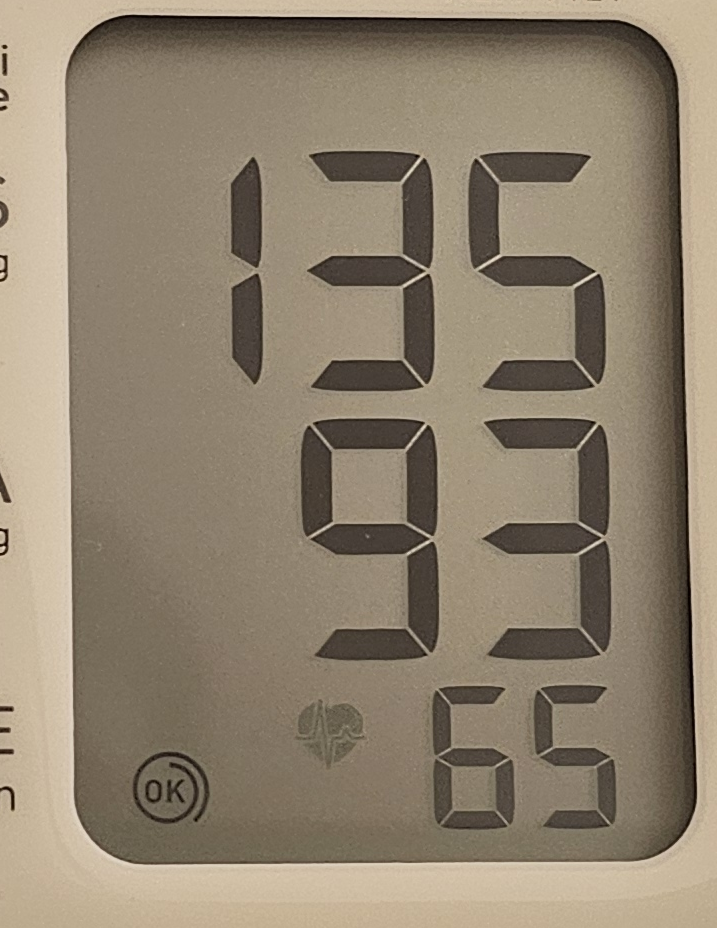
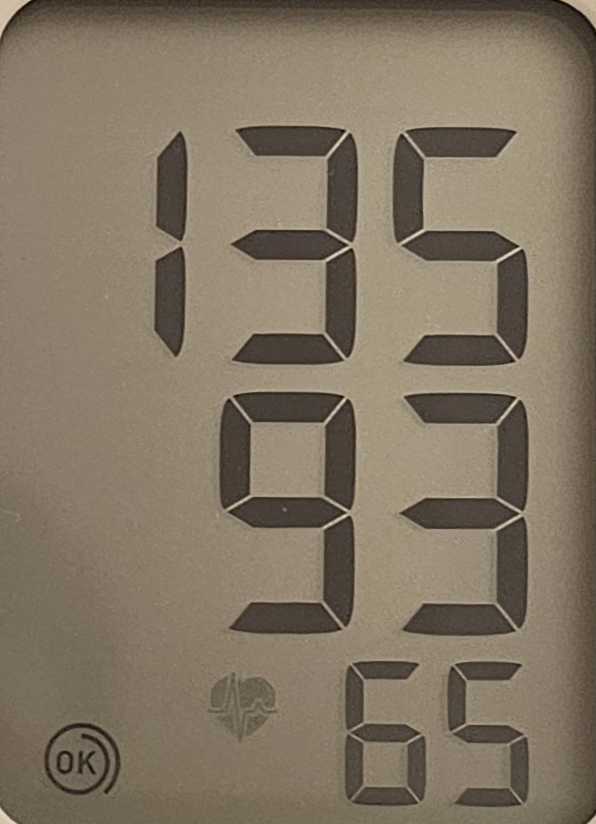
task 1 complete for bpm and thermometer

diff --git a/task1.py b/task1.py
@@ -37,13 +37,24 @@ import numpy as np
 import math
 
 from ml_utils import load_YOLO, crop_object_box, perspective_transform_image
+
+ALLOW_BPM_DEBUG = True
+ALLOW_THERMO_DEBUG = True
+
 THERMO_LABEL = "thermometer"
+
 BPM_LABEL = "blood pressure monitor"
 BPM_THERMOMETER_DEETECTOR_MODEL_PATH = os.path.join("data/task1/","bpm_thermomter_detector.pt")
 LCD_DISPLAY_DETECTOR_MODEL_PATH = os.path.join("data/task1/","lcd_display_detector.pt")
 
+TEMPLATE_LCD_PATH = os.path.join("data/task1/templates/", "template_lcd.png")
+TEMPLATE_THERMO_PATH = os.path.join("data/task1/templates/", "template_thermo.png")
+
 BASE_CONFIDENCE_THRESHOLD_LCD_DISPLAY = 0.25
 BASE_CONFIDENCE_THRESHOLD_BPM_THEROMETER = 0.25
+
+# keypoint matching how many matches required
+MIN_MATCH_COUNT = 10
 
 OUTPUT_DIR = os.path.join("output","task1")
 
@@ -83,19 +94,19 @@ def run_task1(image_path, config):
 
     print(f"    [Task 1] Found {len(images)} input images(s).")
 
-    process_task1(images)
+    process_task1(images, ALLOW_BPM_DEBUG, ALLOW_THERMO_DEBUG)
    
-def process_task1(images):
+def process_task1(images, allowBPMDebug, allowTHERMODebug):
     """
     
     Pipeline: Input -> [BPM THERMO Detector] -> 
     
-    -> BPM -> [LCD Display Detector] -> [Crop Display] -> [Use orientated image for keypoint detection of four corners] -> [SIFT corner detection] -> [Perspective Transform]
-    -> Thermo -> [Crop Thermometer] -> [Use orientated image SIFT for keypoint detection] -> [Perspective transform]
+    -> BPM -> [LCD Display Detector] -> [Crop Display] -> [Use orientated image for keypoint detection of four corners] -> [SIFT keypoint detection] -> [Perspective Transform] -> Output
+    -> Thermo -> [Crop Thermometer] -> [Use orientated image SIFT for keypoint detection] -> [Perspective transform] -> Output
     
     """
-    # load model ->
 
+    # load models
     bpm_model_detector = load_YOLO(BPM_THERMOMETER_DEETECTOR_MODEL_PATH)
     lcd_display_detector = load_YOLO(LCD_DISPLAY_DETECTOR_MODEL_PATH)
      # task 1 logic
@@ -132,44 +143,15 @@ def process_task1(images):
             tensorBox = results[0].boxes.xyxy[i]
             x1, y1, x2, y2 = map(int, tensorBox[:4])
 
-            # obtain width and height of bounding box
-            width = abs(x2 - x1)
-            height = abs(y2 - y1)
-
-
-
             # for each image if negative 
             print(f"LABEL: {label_name}, CONF: {box.conf[0].item()}")
             if label_name == THERMO_LABEL:
-                # thermometer
-
-
-                # crop it to the bounding boxes
-                final_image = crop_object_box(tensorBox, img)
-                # orientate the image (rotate by theta optimal)
-
-                final_image = apply_perspective_transform(final_image, width, height)
-
-
+                final_image = process_thermometer_image(img, tensorBox, allowTHERMODebug)
                 out_name = f"thermo{img_num}.png"
                 print(f"    [Task 1] {basename}.jpg -> Thermometer -> {out_name}")
             elif label_name == BPM_LABEL:
                 # pipeline: image -> [feature detection] -> [bpm detector] -> [lcd detector] ->  output image
-
-                # OR use SIFT: 
-                #  SOLUTION: SHI TOMASI CORNER DETECTION
-                    # - then find the top, leftmost, rightmost and bottom corners (then orientate corners of lcd display)
-
-                # bpm (crop to bounding boxes)
-                final_image = crop_object_box(tensorBox, img)
-
-                # detect lcd screen using lcd screen detector
-                lcdDisplayBox = lcd_display_detector.predict(final_image, conf=BASE_CONFIDENCE_THRESHOLD_LCD_DISPLAY, retina_masks=True)[0].boxes.xyxy[0]
-                # crop it (to lcd screen)
-                final_image = crop_object_box(lcdDisplayBox, final_image)
-                # orientate
-
-                
+                final_image = process_bpm_image(img, tensorBox, lcd_display_detector, allowBPMDebug)
 
                 out_name = f"lcd{img_num}.png"
 
@@ -181,13 +163,110 @@ def process_task1(images):
             output_path = os.path.join(OUTPUT_DIR, out_name)
             save_output(output_path, final_image, output_type='image')
 
+def process_thermometer_image(img, tensorBox, allowDebug):
+    # thermometer
+    # obtain width and height of bounding box
+    
+    templateTHERMOImage = cv2.imread(TEMPLATE_THERMO_PATH)
 
+    # crop it to the bounding boxes of thermometer
+    final_image = crop_object_box(tensorBox, img)
 
-def apply_perspective_transform(crop, width, height):
-    # convert to gray scale
-    img = crop.copy()
-    pts_src = np.float32([[50, 100], [400, 50], [450, 500], [20, 450]])
+    final_image = sift_keypoint_perspective_warp(templateTHERMOImage, final_image, allowDebug)
 
-    pts_dst = np.float32([[0, 0], [width, 0], [width, height], [0, height]])
+    if allowDebug:
+        plt.imshow(final_image)
+        plt.show()
 
-    return perspective_transform_image(crop, pts_src, pts_dst, width, height)
+    return final_image
+
+def process_bpm_image(img, tensorBox, lcd_display_detector, allowDebug):
+
+    # read lcd template
+    templateLCDImage = cv2.imread(TEMPLATE_LCD_PATH)
+
+    # base template
+    heightLCD, widthLCD = templateLCDImage.shape[:2]
+
+    # bpm (crop to bounding boxes)
+    bpmImg = crop_object_box(tensorBox, img)
+
+    # detect lcd screen using lcd screen detector
+    lcdDisplayBox = lcd_display_detector.predict(bpmImg, conf=BASE_CONFIDENCE_THRESHOLD_LCD_DISPLAY, retina_masks=True)[0].boxes.xyxy[0]
+    # crop it (to lcd screen)
+    lcdCropped = crop_object_box(lcdDisplayBox, bpmImg)
+
+    final_image = sift_keypoint_perspective_warp(templateLCDImage, lcdCropped, allowDebug)
+    if allowDebug:
+        plt.imshow(final_image)
+        plt.show()
+
+    return final_image
+
+def sift_keypoint_perspective_warp(image1, image2, allowDebug):
+    """
+    Maps the keypoints of image2 to the dimensions of image1.
+    
+    """
+
+    goodMatches, kp1, kp2 = obtain_good_matches(image1, image2)
+    
+    # if good enough matches
+    if len(goodMatches) > MIN_MATCH_COUNT:
+        # obtain matching keypoints locations of both images
+        src_pts = np.float32([ kp1[m.queryIdx].pt for m in goodMatches ]).reshape(-1,1,2)
+        dst_pts = np.float32([ kp2[m.trainIdx].pt for m in goodMatches ]).reshape(-1,1,2)
+
+        # map from image 2 to image 1's frame work
+        M, mask = cv2.findHomography(dst_pts, src_pts, cv2.RANSAC, 5.0)
+        matchesMask = mask.ravel().tolist()
+
+        # apply perspective transform to find matching borders
+        height, width = image1.shape[:2]
+
+        if allowDebug:
+            draw_params = dict(matchColor = (0, 255, 0),
+                               singlePointColor=None,
+                               matchesMask=matchesMask, # draw only inliers
+                               flags=2)
+            debugImg = cv2.drawMatches(image1, kp1, image2, kp2, goodMatches, None, **draw_params)
+            plt.imshow(debugImg)
+            plt.show()
+      
+        # find top Left, 
+        final_image = cv2.warpPerspective(image2, M, (width, height))
+        return final_image
+    else:
+        print(f"    [Task 1] Not enough matches are found, current: {len(goodMatches)}, needed: {MIN_MATCH_COUNT}")
+        return None
+    
+def obtain_good_matches(image1, image2):
+    """
+    Find the best matches between two images. 
+    
+    
+    
+    """
+    # use sift to compare orientation and their corresponding points
+    # https://docs.opencv.org/4.13.0/d1/de0/tutorial_py_feature_homography.html
+    # initialise SIFT
+    sift = cv2.SIFT_create()
+    # find the keypoints descriptors of both image
+    kp1, des1 = sift.detectAndCompute(image1, None)
+    kp2, des2 = sift.detectAndCompute(image2, None)
+
+    index_params = dict(algorithm=1, trees= 5)
+    search_params = dict(checks = 50)
+
+    # find keypoints
+    flann = cv2.FlannBasedMatcher(indexParams=index_params, searchParams=search_params)
+    matches = flann.knnMatch(des1, des2, k = 2)
+
+    # store the good matches using Lowe's ratio test
+    good = []
+    for m, n in matches:
+        if m.distance < 0.7 * n.distance:
+            good.append(m)
+
+    return good, kp1, kp2
+

diff --git a/task3.py b/task3.py
@@ -7,7 +7,7 @@ Produce predictions on the digit readings or the thermometer readings.
 
 Author: Zhong Cheng Lau 
 
-Last Modified: 2026-20-09
+Last Modified: 2026-22-09
 
 """
 

diff --git a/task4.py b/task4.py
@@ -6,7 +6,7 @@ Runs the entire pipeline from start to finish.
 
 Author: Zhong Cheng Lau 
 
-Last Modified: 2026-16-09
+Last Modified: 2026-24-09
 
 """
 
